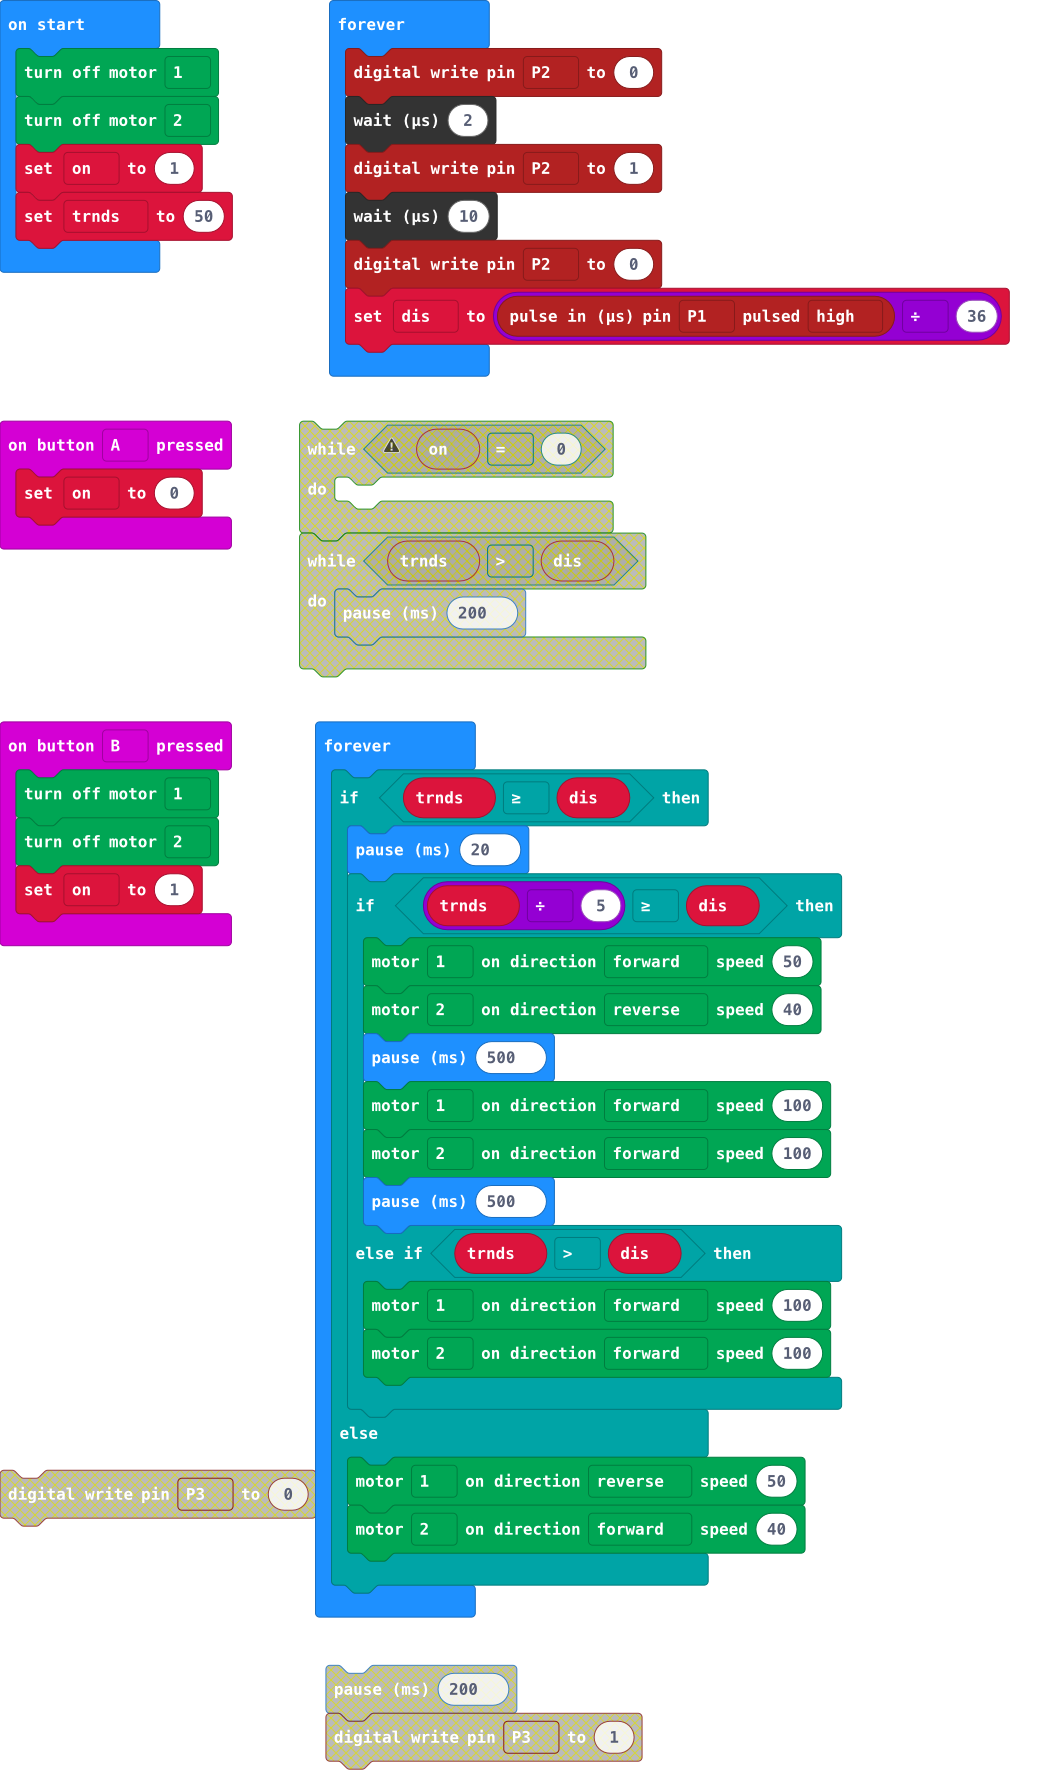
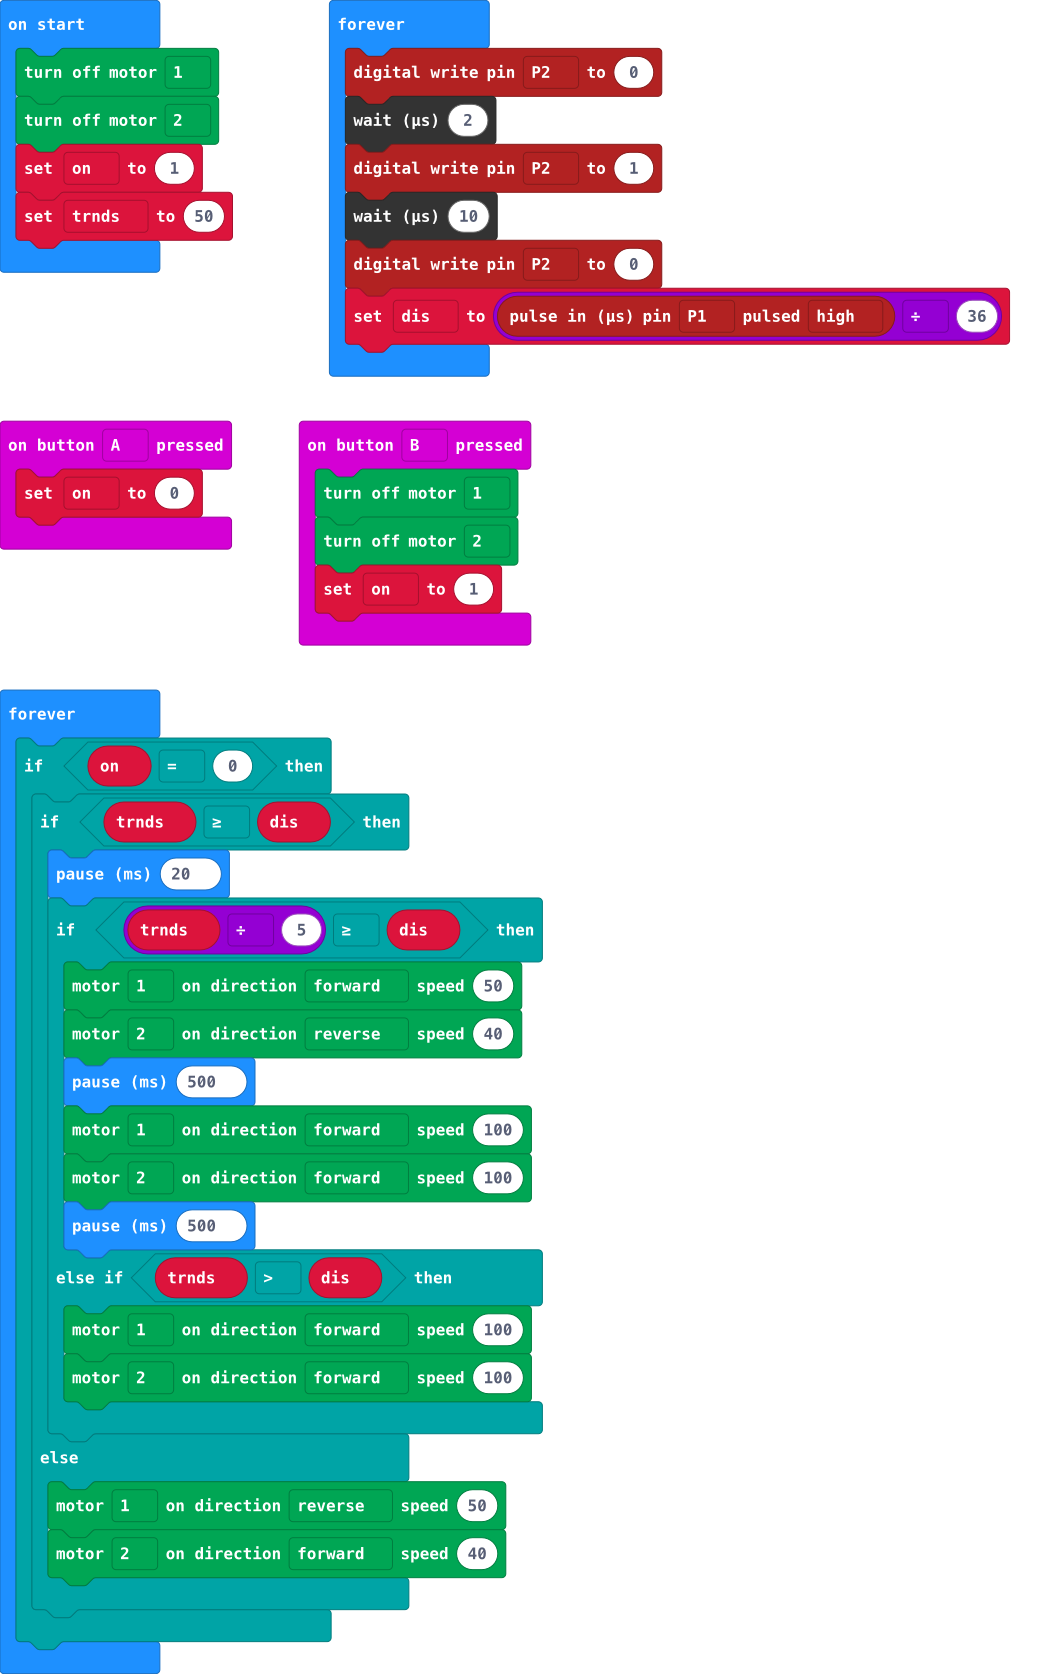
Update pxt.json, main.blocks, main.ts, main.py

diff --git a/main.ts b/main.ts
@@ -1,7 +1,9 @@
-input.onButtonPressed(Button.A, function () {
+input.onButtonPressed(Button.A, function on_button_pressed_a() {
+    
     on = 0
 })
-input.onButtonPressed(Button.B, function () {
+input.onButtonPressed(Button.B, function on_button_pressed_b() {
+    
     kitronik_motor_driver.motorOff(kitronik_motor_driver.Motors.Motor1)
     kitronik_motor_driver.motorOff(kitronik_motor_driver.Motors.Motor2)
     on = 1
@@ -12,7 +14,8 @@ kitronik_motor_driver.motorOff(kitronik_motor_driver.Motors.Motor1)
 kitronik_motor_driver.motorOff(kitronik_motor_driver.Motors.Motor2)
 on = 1
 let trnds = 50
-basic.forever(function () {
+basic.forever(function on_forever() {
+    
     pins.digitalWritePin(DigitalPin.P2, 0)
     control.waitMicros(2)
     pins.digitalWritePin(DigitalPin.P2, 1)
@@ -20,22 +23,27 @@ basic.forever(function () {
     pins.digitalWritePin(DigitalPin.P2, 0)
     dis = pins.pulseIn(DigitalPin.P1, PulseValue.High) / 36
 })
-basic.forever(function () {
-    if (trnds >= dis) {
-        basic.pause(20)
-        if (trnds / 5 >= dis) {
-            kitronik_motor_driver.motorOn(kitronik_motor_driver.Motors.Motor1, kitronik_motor_driver.MotorDirection.Forward, 50)
-            kitronik_motor_driver.motorOn(kitronik_motor_driver.Motors.Motor2, kitronik_motor_driver.MotorDirection.Reverse, 40)
-            basic.pause(500)
-            kitronik_motor_driver.motorOn(kitronik_motor_driver.Motors.Motor1, kitronik_motor_driver.MotorDirection.Forward, 100)
-            kitronik_motor_driver.motorOn(kitronik_motor_driver.Motors.Motor2, kitronik_motor_driver.MotorDirection.Forward, 100)
-            basic.pause(500)
-        } else if (trnds > dis) {
-            kitronik_motor_driver.motorOn(kitronik_motor_driver.Motors.Motor1, kitronik_motor_driver.MotorDirection.Forward, 100)
-            kitronik_motor_driver.motorOn(kitronik_motor_driver.Motors.Motor2, kitronik_motor_driver.MotorDirection.Forward, 100)
+basic.forever(function on_forever2() {
+    if (on == 0) {
+        if (trnds >= dis) {
+            basic.pause(20)
+            if (trnds / 5 >= dis) {
+                kitronik_motor_driver.motorOn(kitronik_motor_driver.Motors.Motor1, kitronik_motor_driver.MotorDirection.Forward, 50)
+                kitronik_motor_driver.motorOn(kitronik_motor_driver.Motors.Motor2, kitronik_motor_driver.MotorDirection.Reverse, 40)
+                basic.pause(500)
+                kitronik_motor_driver.motorOn(kitronik_motor_driver.Motors.Motor1, kitronik_motor_driver.MotorDirection.Forward, 100)
+                kitronik_motor_driver.motorOn(kitronik_motor_driver.Motors.Motor2, kitronik_motor_driver.MotorDirection.Forward, 100)
+                basic.pause(500)
+            } else if (trnds > dis) {
+                kitronik_motor_driver.motorOn(kitronik_motor_driver.Motors.Motor1, kitronik_motor_driver.MotorDirection.Forward, 100)
+                kitronik_motor_driver.motorOn(kitronik_motor_driver.Motors.Motor2, kitronik_motor_driver.MotorDirection.Forward, 100)
+            }
+            
+        } else {
+            kitronik_motor_driver.motorOn(kitronik_motor_driver.Motors.Motor1, kitronik_motor_driver.MotorDirection.Reverse, 50)
+            kitronik_motor_driver.motorOn(kitronik_motor_driver.Motors.Motor2, kitronik_motor_driver.MotorDirection.Forward, 40)
         }
-    } else {
-        kitronik_motor_driver.motorOn(kitronik_motor_driver.Motors.Motor1, kitronik_motor_driver.MotorDirection.Reverse, 50)
-        kitronik_motor_driver.motorOn(kitronik_motor_driver.Motors.Motor2, kitronik_motor_driver.MotorDirection.Forward, 40)
+        
     }
+    
 })

diff --git a/main.py b/main.py
@@ -1,28 +1,23 @@
+def on_button_pressed_a():
+    global on
+    on = 0
+input.on_button_pressed(Button.A, on_button_pressed_a)
+
+def on_button_pressed_b():
+    global on
+    kitronik_motor_driver.motor_off(kitronik_motor_driver.Motors.MOTOR1)
+    kitronik_motor_driver.motor_off(kitronik_motor_driver.Motors.MOTOR2)
+    on = 1
+input.on_button_pressed(Button.B, on_button_pressed_b)
+
 dis = 0
-dis2 = 0
+on = 0
+kitronik_motor_driver.motor_off(kitronik_motor_driver.Motors.MOTOR1)
+kitronik_motor_driver.motor_off(kitronik_motor_driver.Motors.MOTOR2)
+on = 1
+trnds = 50
 
 def on_forever():
-    global dis2
-    if 50 > dis:
-        dis2 = dis
-        basic.pause(100)
-        if dis2 > dis:
-            basic.show_icon(IconNames.SMALL_HEART)
-            kitronik_motor_driver.motor_off(kitronik_motor_driver.Motors.MOTOR1)
-            kitronik_motor_driver.motor_on(kitronik_motor_driver.Motors.MOTOR2,
-                kitronik_motor_driver.MotorDirection.REVERSE,
-                50)
-    else:
-        basic.show_icon(IconNames.HEART)
-        kitronik_motor_driver.motor_on(kitronik_motor_driver.Motors.MOTOR1,
-            kitronik_motor_driver.MotorDirection.REVERSE,
-            50)
-        kitronik_motor_driver.motor_on(kitronik_motor_driver.Motors.MOTOR2,
-            kitronik_motor_driver.MotorDirection.FORWARD,
-            40)
-basic.forever(on_forever)
-
-def on_forever2():
     global dis
     pins.digital_write_pin(DigitalPin.P2, 0)
     control.wait_micros(2)
@@ -30,4 +25,39 @@ def on_forever2():
     control.wait_micros(10)
     pins.digital_write_pin(DigitalPin.P2, 0)
     dis = pins.pulse_in(DigitalPin.P1, PulseValue.HIGH) / 36
+basic.forever(on_forever)
+
+def on_forever2():
+    if on == 0:
+        if trnds >= dis:
+            basic.pause(20)
+            if trnds / 5 >= dis:
+                kitronik_motor_driver.motor_on(kitronik_motor_driver.Motors.MOTOR1,
+                    kitronik_motor_driver.MotorDirection.FORWARD,
+                    50)
+                kitronik_motor_driver.motor_on(kitronik_motor_driver.Motors.MOTOR2,
+                    kitronik_motor_driver.MotorDirection.REVERSE,
+                    40)
+                basic.pause(500)
+                kitronik_motor_driver.motor_on(kitronik_motor_driver.Motors.MOTOR1,
+                    kitronik_motor_driver.MotorDirection.FORWARD,
+                    100)
+                kitronik_motor_driver.motor_on(kitronik_motor_driver.Motors.MOTOR2,
+                    kitronik_motor_driver.MotorDirection.FORWARD,
+                    100)
+                basic.pause(500)
+            elif trnds > dis:
+                kitronik_motor_driver.motor_on(kitronik_motor_driver.Motors.MOTOR1,
+                    kitronik_motor_driver.MotorDirection.FORWARD,
+                    100)
+                kitronik_motor_driver.motor_on(kitronik_motor_driver.Motors.MOTOR2,
+                    kitronik_motor_driver.MotorDirection.FORWARD,
+                    100)
+        else:
+            kitronik_motor_driver.motor_on(kitronik_motor_driver.Motors.MOTOR1,
+                kitronik_motor_driver.MotorDirection.REVERSE,
+                50)
+            kitronik_motor_driver.motor_on(kitronik_motor_driver.Motors.MOTOR2,
+                kitronik_motor_driver.MotorDirection.FORWARD,
+                40)
 basic.forever(on_forever2)
